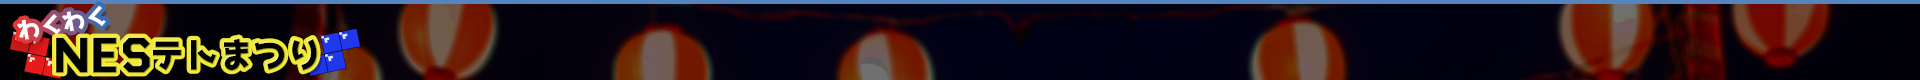
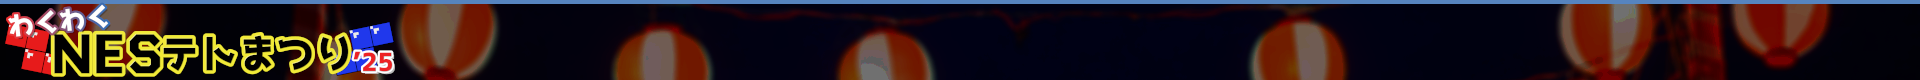
2025 sponsor data and tweak

Changed region(s): [[0.0, 0.05, 0.2188, 0.975]]

diff --git a/client/footer.ts b/client/footer.ts
@@ -37,20 +37,22 @@ export class WakutetFooterElement extends LitElement {
     line-height: 70px;
   }
 
-  .sponsor-1 {
+  .sponsor {
     position: absolute;
-    right: 260px;
-    width: 240px;
+    width: 229px;
     height: 80px;
-    background: url("images/footer_sponsors/1.png");
+    background-size: contain;
+    background-repeat: no-repeat;
+  }
+
+  .sponsor-1 {
+    right: 240px;
+    background-image: url("images/footer_sponsors/1.png");
   }
 
   .sponsor-2 {
-    position: absolute;
     right: 0px;
-    width: 240px;
-    height: 80px;
-    background: url("images/footer_sponsors/2.png");
+    background-image: url("images/footer_sponsors/2.png");
   }
   `;
 
@@ -88,8 +90,8 @@ export class WakutetFooterElement extends LitElement {
         <div class="match-name" style=${styleMap({ display: this._matchName == null ? "none" : null })}>${this._matchName}</div>
         <div class="commentary" style=${styleMap({ display: this._commentaryNames.length == 0 ? "none" : null })}>実況：${this._commentaryNames.join("・")}</div>
       </div>
-      <div class="sponsor-1"></div>
-      <div class="sponsor-2"></div>
+      <div class="sponsor sponsor-1"></div>
+      <div class="sponsor sponsor-2"></div>
     </div>
     `;
   }

diff --git a/client/player_introduction.ts b/client/player_introduction.ts
@@ -18,7 +18,7 @@ export class WakutetPlayerIntroductionElement extends LitElement {
 
   img {
     width: 1920px;
-    width: 1080px;
+    height: 1080px;
   }
   `
 

diff --git a/client/sponsor.ts b/client/sponsor.ts
@@ -17,7 +17,7 @@ export class WakutetSponsorElement extends LitElement {
 
   img {
     width: 1920px;
-    width: 1080px;
+    height: 1080px;
   }
   `
 
